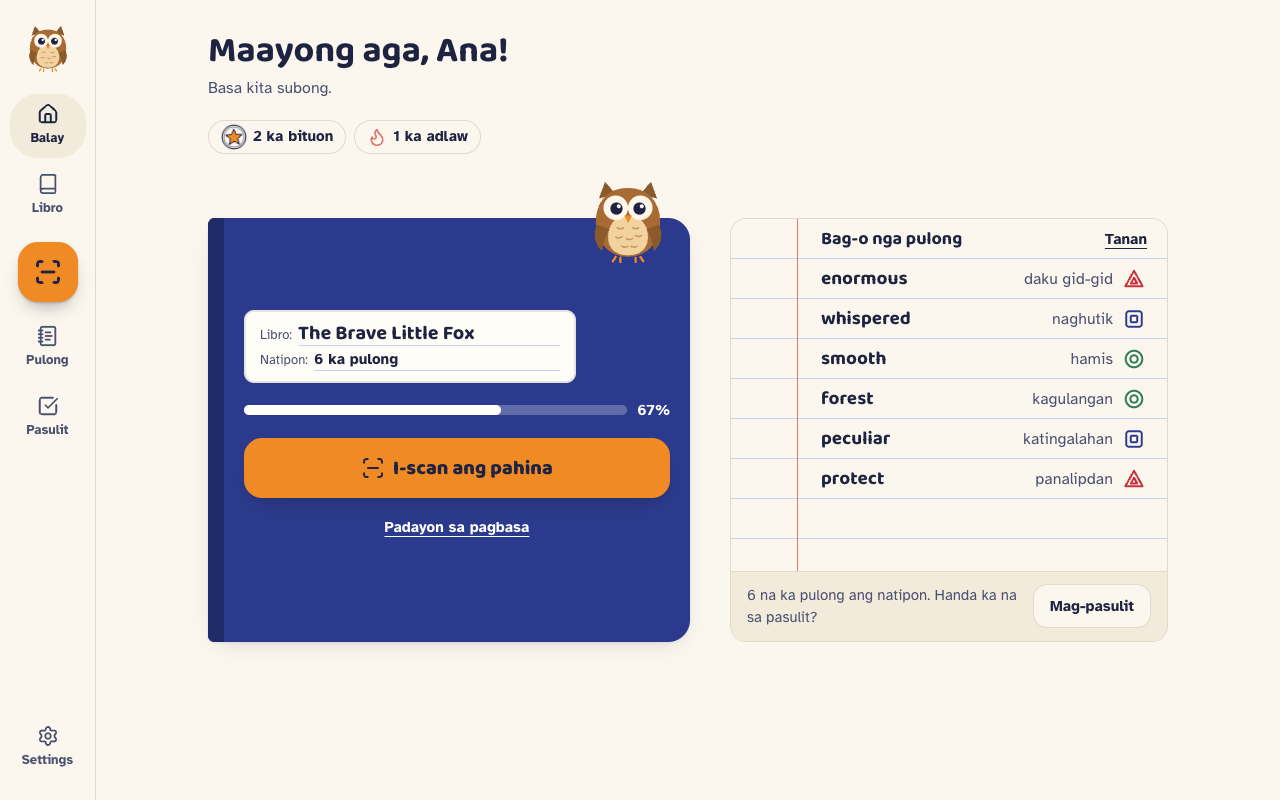
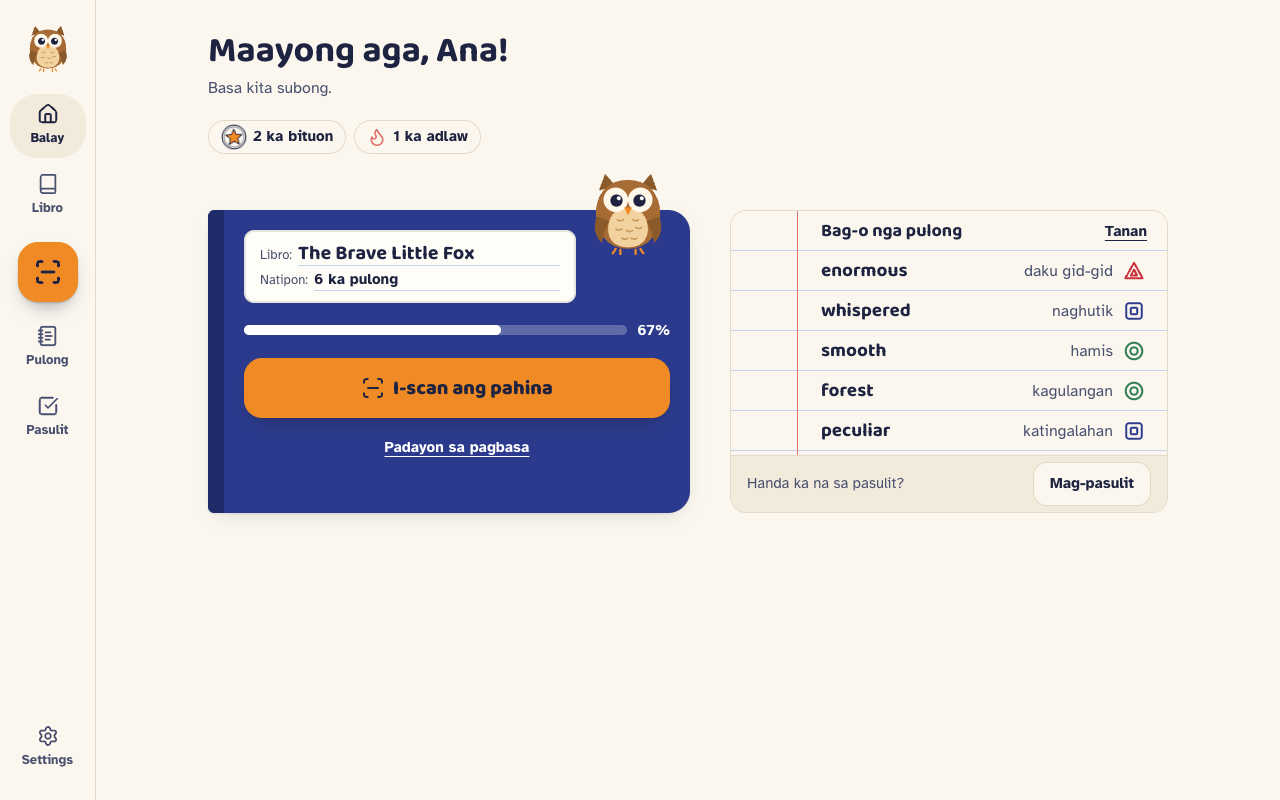
Review fix: one paper cell for stamp and speaker, compact Home nudge, cover follows content

diff --git a/src/features/home/HomeScreen.tsx b/src/features/home/HomeScreen.tsx
@@ -20,8 +20,8 @@ import { JACKET_CLASS } from "./jacket";
 import { needsWelcome } from "./onboarding";
 
 const QUIZ_MIN_WORDS = 4;
-/** Four rows below lg (the first viewport); two more at lg+, where the cover is taller. */
-const RECENT_COUNT = 6;
+/** Four rows below lg (the first viewport); one more at lg+, where the cover is taller. */
+const RECENT_COUNT = 5;
 const RECENT_MOBILE = 4;
 
 function Chip({ icon, children }: { icon: React.ReactNode; children: React.ReactNode }) {
@@ -91,11 +91,11 @@ export default function HomeScreen() {
           <Chip icon={<Flame className="size-[1.25rem] text-margin" aria-hidden="true" />}>{t.home.chipStreak(streak)}</Chip>
         </ul>
 
-        <div className="grid items-start gap-8 pt-14 lg:grid-cols-[minmax(0,1.1fr)_minmax(0,1fr)] lg:min-h-[30rem] lg:items-stretch lg:gap-10">
+        <div className="grid items-start gap-8 pt-12 lg:grid-cols-[minmax(0,1.1fr)_minmax(0,1fr)] lg:items-stretch lg:gap-10">
           <section
             aria-label={t.home.coverLabel}
             className={cn(
-              "relative rounded-[0.375rem_1.375rem_1.375rem_0.375rem] py-5 pr-5 pl-9 shadow-md lg:flex lg:flex-col lg:justify-center lg:py-8",
+              "relative rounded-[0.375rem_1.375rem_1.375rem_0.375rem] py-5 pr-5 pl-9 shadow-md",
               JACKET_CLASS[book.jacket],
             )}
           >
@@ -186,8 +186,8 @@ export default function HomeScreen() {
               )}
             </div>
             {words.length >= QUIZ_MIN_WORDS && (
-              <div className="flex items-center justify-between gap-3 border-t border-line bg-paper-2 px-4 py-3">
-                <p className="text-[0.9375rem] text-ink-2">{t.home.quizNudge(wordCount)}</p>
+              <div className="flex items-center justify-between gap-3 border-t border-line bg-paper-2 px-4 py-1.5">
+                <p className="text-[0.9375rem] text-ink-2">{t.home.quizNudge}</p>
                 <Button asChild variant="secondary" size="sm" className="shrink-0">
                   <Link href="/quiz">{t.home.quizCta}</Link>
                 </Button>

diff --git a/src/features/vocabulary/VocabularyScreen.tsx b/src/features/vocabulary/VocabularyScreen.tsx
@@ -178,14 +178,14 @@ export default function VocabularyScreen() {
                           <span className="block truncate font-heading text-xl leading-[var(--pitch)] font-bold">{w.word}</span>
                           <span className="block truncate leading-[var(--pitch)] text-ink-2">{w.translation}</span>
                         </span>
-                        {/* paper backing: the rule under the row never strikes through the icon */}
-                        <span className="grid shrink-0 place-items-center rounded-md bg-paper p-1">
-                          <DifficultyStamp level={w.difficulty} showLabel={false} />
-                        </span>
                       </button>
-                      <Button variant="ghost" size="icon" className="bg-paper hover:bg-paper-2" onClick={() => void say(w)} aria-label={t.vocabulary.speakWord(w.word)}>
-                        <Volume2 aria-hidden="true" />
-                      </Button>
+                      {/* one cell, one paper backing: the rule never shows between or around the icons */}
+                      <span className="flex shrink-0 items-center gap-1 rounded-md bg-paper">
+                        <DifficultyStamp level={w.difficulty} showLabel={false} />
+                        <Button variant="ghost" size="icon" onClick={() => void say(w)} aria-label={t.vocabulary.speakWord(w.word)}>
+                          <Volume2 aria-hidden="true" />
+                        </Button>
+                      </span>
                     </li>
                   ))}
                 </ul>

diff --git a/src/data/strings/home.ts b/src/data/strings/home.ts
@@ -20,7 +20,7 @@ const hiligaynon = {
   recentViewAllLabel: "Tan-awa ang tanan nga natipon nga pulong",
   emptyTitle: "Wala pa sang natipon nga pulong",
   emptyBody: "I-scan ang pahina sang imo libro ukon abri-a ang isa ka istorya. Pindota ang pulong nga indi mo kilala kag tipigi.",
-  quizNudge: (n: number) => `${n} na ka pulong ang natipon. Handa ka na sa pasulit?`,
+  quizNudge: "Handa ka na sa pasulit?",
   quizCta: "Mag-pasulit",
 };
 
@@ -45,7 +45,7 @@ const tagalog = {
   recentViewAllLabel: "Tingnan ang lahat ng natipong salita",
   emptyTitle: "Wala pang natipong salita",
   emptyBody: "I-scan ang pahina ng iyong aklat o magbukas ng kuwento. Pindutin ang salitang hindi mo kilala at itabi ito.",
-  quizNudge: (n: number) => `${n} na salita ang natipon. Handa ka na ba sa pagsusulit?`,
+  quizNudge: "Handa ka na ba sa pagsusulit?",
   quizCta: "Magpasulit",
 } satisfies typeof hiligaynon;
 
